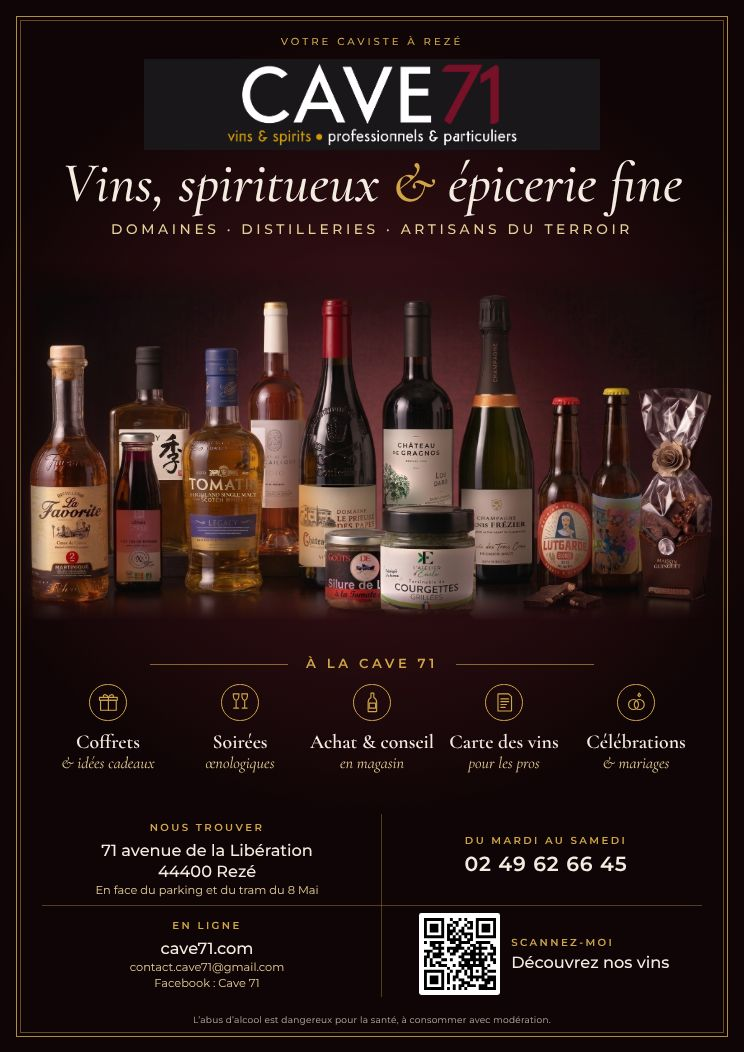
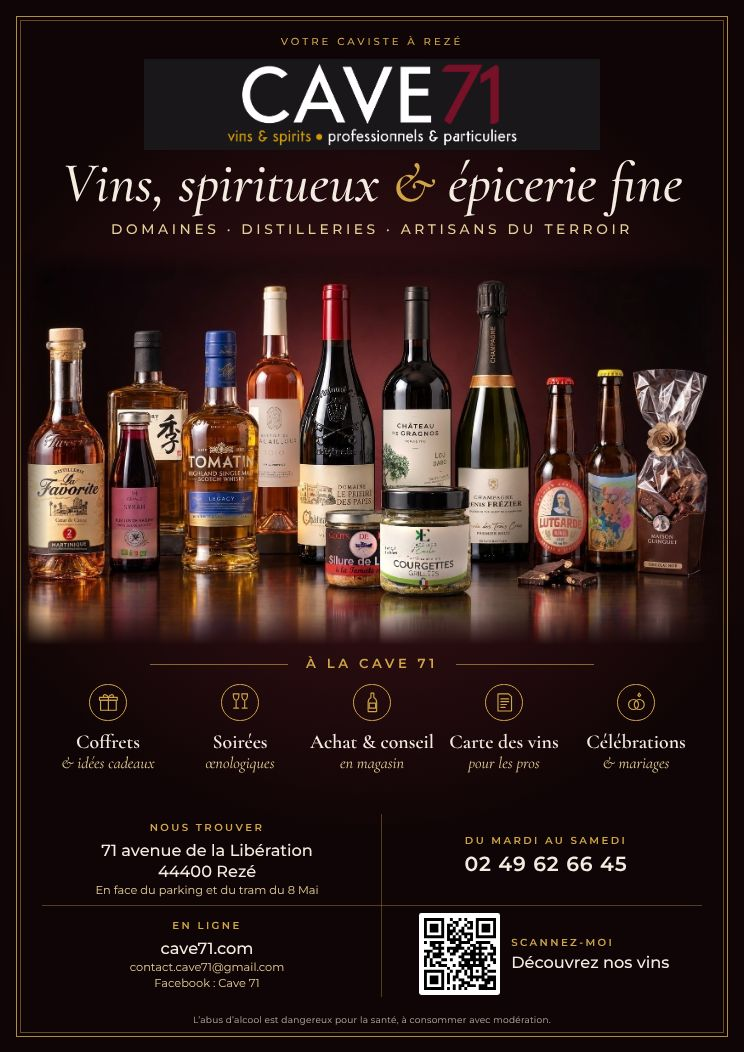
Photo v15 (affinée par ChatGPT) : vraies étiquettes recollées, bas prolongé, fondu du haut réduit
Claude-Session: https://claude.ai/code/session_01MhDWXdDg6yxkfVQXWRp9UB

Changed region(s): [[0.0309, 0.2433, 0.9583, 0.6084]]

diff --git a/panneau/src/Panneau.tsx b/panneau/src/Panneau.tsx
@@ -36,8 +36,8 @@ const SANS = "'Montserrat', sans-serif";
 const PHOTO = {x: 20, y: 408, w: 1200};
 // proportions de chaque photo (largeur / hauteur), et décalage vertical pour centrer la plus basse
 const PHOTOS = {
-	sombre: {src: 'vitrine_sombre.jpg', ratio: 2000 / 989, dy: 33},
-	clair: {src: 'vitrine_clair.jpg', ratio: 2000 / 1116, dy: 0},
+	sombre: {src: 'vitrine_sombre.jpg', ratio: 1693 / 929, dy: 8, haut: 6},
+	clair: {src: 'vitrine_clair.jpg', ratio: 2000 / 1116, dy: 0, haut: 10},
 };
 
 // Icônes des services : une par colonne, au-dessus des blocs service-1..5 de textes.json.
@@ -143,9 +143,8 @@ const BlocTexte: React.FC<{bloc: Bloc; K: Record<string, string>}> = ({bloc, K})
 
 const Photo: React.FC<{clair: boolean}> = ({clair}) => {
 	const {x, y, w} = PHOTO;
-	const {src, ratio, dy} = PHOTOS[clair ? 'clair' : 'sombre'];
-	const fondu =
-		'linear-gradient(to right, transparent, black 5%, black 95%, transparent), linear-gradient(to bottom, transparent, black 10%, black 92%, transparent)';
+	const {src, ratio, dy, haut} = PHOTOS[clair ? 'clair' : 'sombre'];
+	const fondu = `linear-gradient(to right, transparent, black 5%, black 95%, transparent), linear-gradient(to bottom, transparent, black ${haut}%, black 92%, transparent)`;
 	return (
 		<Img
 			src={staticFile(`produits/${src}`)}

diff --git a/panneau/tools/corrige_textes_photo.py b/panneau/tools/corrige_textes_photo.py
@@ -192,7 +192,22 @@ CORRECTIONS_V14 = [
     dict(zone=(1782, 828, 1858, 845), mode='clair', texte='GUINGUET', police='serif', poids='Medium', x=1820, y=836.7, cap=9.0, align='c', couleur=(226, 212, 196)),
 ]
 
-PHOTOS = {'v8': (CORRECTIONS_V8, TOMATE_V8), 'v10': (CORRECTIONS_V10, TOMATE_V10), 'v12': (CORRECTIONS_V12, None), 'v14': (CORRECTIONS_V14, None)}
+# Photo affinée par ChatGPT (resultat_chatgpt_v15.png, 1693 x 929) : Gragnos, Frézier, Blacailloux, Lutgarde,
+# Trompe Souris, courgettes et Silure sont recollés en entier (remplace_etiquette.py) ; restent ces textes.
+CORRECTIONS_V15 = [
+    # Rhum La Favorite
+    dict(zone=(92, 627, 184, 642), mode='sombre', texte='Cœur de Canne', police='serif', poids='Bold', x=139, y=634.5, cap=7.4, align='c', gras=1.6),
+    dict(zone=(92, 642, 186, 650), mode='sombre', texte='RHUM AGRICOLE AMBRÉ', police='sans', poids='SemiBold', x=139, y=646, cap=3.4, align='c'),
+    dict(zone=(98, 698, 172, 710), mode='clair', texte="APPELLATION MARTINIQUE CONTRÔLÉE", police='sans', poids='Medium', x=134.5, y=703.5, cap=2.8, align='c', couleur=(226, 218, 204)),
+    # Whisky Tomatin Legacy : bandeau bleu (texte clair) et bandeau doré
+    dict(zone=(420, 593, 560, 612), mode='clair', texte=None, cap=3),
+    dict(texte='TIME IN BOURBON BARRELS AND VIRGIN OAK CASKS BRINGS A LIGHT', police='sans', poids='Medium', x=491, y=597.5, cap=2.2, align='c', couleur=(220, 214, 200)),
+    dict(texte='SWEETNESS TO THE TOMATIN LEGACY, WHICH BOASTS AROMAS OF', police='sans', poids='Medium', x=491, y=603, cap=2.2, align='c', couleur=(220, 214, 200)),
+    dict(texte='VANILLA, WHITE CHOCOLATE AND FRESH FRUIT.', police='sans', poids='Medium', x=491, y=608.5, cap=2.2, align='c', couleur=(220, 214, 200)),
+    dict(zone=(420, 620, 562, 634), mode='sombre', plein=True, texte='BOURBON & VIRGIN OAK CASKS', police='serif', poids='SemiBold', x=491, y=627, cap=5.4, align='c', couleur=(52, 40, 28)),
+]
+
+PHOTOS = {'v8': (CORRECTIONS_V8, TOMATE_V8), 'v10': (CORRECTIONS_V10, TOMATE_V10), 'v12': (CORRECTIONS_V12, None), 'v14': (CORRECTIONS_V14, None), 'v15': (CORRECTIONS_V15, None)}
 
 
 def lum(a):
